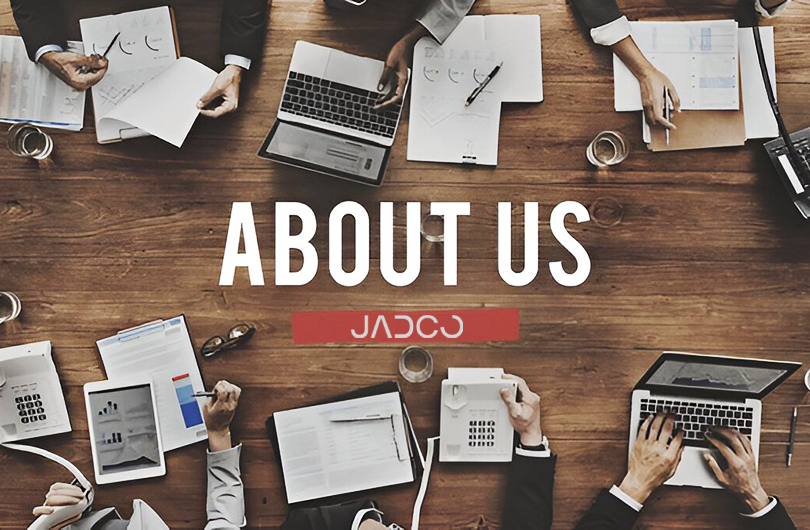
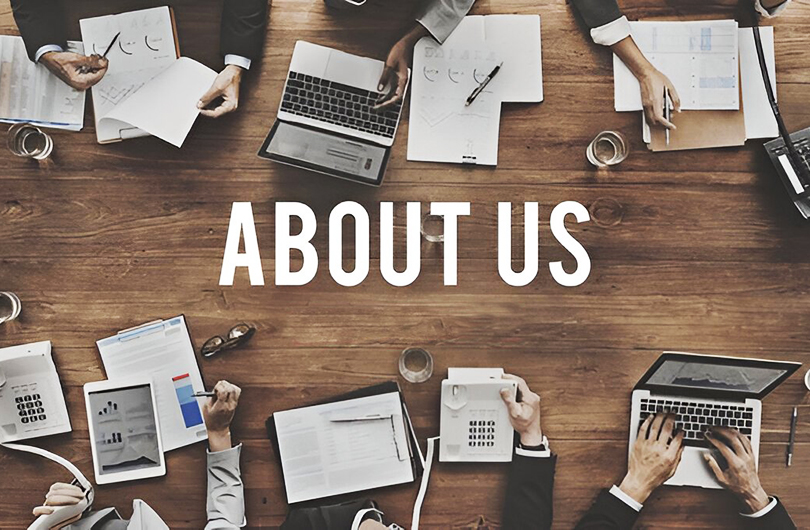
Refactor header text for clarity and consistency. Updated contact information with new WhatsApp numbers. Adjusted CSS styles for headings and service content. Updated CHANGELOG.md to reflect these changes.

Changed region(s): [[0.3395, 0.5736, 0.6481, 0.6642]]

diff --git a/resources/js/components/Header.vue b/resources/js/components/Header.vue
@@ -6,10 +6,10 @@
             <div class="left-col col-lg-6 order-lg-1 order-2">
                 <!-- Dynamic Heading Text -->
                 <h1 class="main-heading">
-                    <span v-if="isHomePage" class="heading-text" :class="{ 'active': currentSlide === 0 }" data-slide="0">FROM EDUCATION AND TRAINING TO INNOVATION</span>
-                    <span v-if="isHomePage" class="heading-text" :class="{ 'active': currentSlide === 1 }" data-slide="1">ADVANCED AI TECHNOLOGIES FOR THE FUTURE</span>
-                    <span v-if="isHomePage" class="heading-text" :class="{ 'active': currentSlide === 2 }" data-slide="2">E-GAMING AND ESPORTS DEVELOPMENT</span>
-                    <span v-if="isHomePage" class="heading-text" :class="{ 'active': currentSlide === 3 }" data-slide="3">ARTS AND ENTERTAINMENT EXCELLENCE</span>
+                    <span v-if="isHomePage" class="heading-text" :class="{ 'active': currentSlide === 0 }" data-slide="0">From Education and Training to Innovation</span>
+                    <span v-if="isHomePage" class="heading-text" :class="{ 'active': currentSlide === 1 }" data-slide="1">The Latest AI and Technologies</span>
+                    <span v-if="isHomePage" class="heading-text" :class="{ 'active': currentSlide === 2 }" data-slide="2">Innovative Efforts in Revolutionizing the eSport Industry</span>
+                    <span v-if="isHomePage" class="heading-text" :class="{ 'active': currentSlide === 3 }" data-slide="3">Bringing the global Arts and Entertainment Events to town.</span>
                     
                     <span v-if="$route.path.includes('about')" class="heading-text active">We Listen, design your vision and bring it to life... Let's talk</span>
                     <span v-if="$route.path.includes('services/education-and-scholarship')" class="heading-text active">FROM EDUCATION AND TRAINING TO INNOVATION</span>

diff --git a/public/css/style.css b/public/css/style.css
@@ -255,6 +255,10 @@ a:hover {
     visibility: hidden;
     transform: translateX(100px);
     width: 100%;
+    text-transform: lowercase;
+}
+.heading-text::first-letter {
+    text-transform: uppercase;
 }
 
 /* Active slide - base animation */
@@ -1148,9 +1152,9 @@ section:after {
 
 .let-talk {
     font-size: 3.3rem;
-    font-weight: lighter;
+    font-weight: 600;
     margin-bottom: 30px;
-    color: var(--dark-color);
+    color: var(--primary-color);
 }
 
 .location-title {
@@ -1445,7 +1449,7 @@ textarea.form-control:focus {
 
 .about-heading img {
     position: absolute;
-    left: 328px;
+    left: 14rem;
     width: 570px;
     height: 123px;
     max-width: 100%;

diff --git a/public/css/optimized/responsive.css b/public/css/optimized/responsive.css
@@ -39,6 +39,9 @@
         width: 310px;
         height: 380px;
     }
+    .about-section .about-heading img {
+        left: 16rem;
+    }
 }
 
 /* ==========================================
@@ -86,6 +89,9 @@
     .about-image-main {
         width: 550px;
         height: 320px;
+    }
+    .about-section .about-heading img {
+        left: 200px;
     }
     
     .about-image-secondary {

diff --git a/public/css/services.css b/public/css/services.css
@@ -66,7 +66,7 @@
 
 .service-item .service-content-wrapper {
     display: inline-block;
-    white-space: nowrap;
+    /* white-space: nowrap; */
     float: left;
     padding-bottom: 0;
 

diff --git a/resources/views/frontend/partials/header.blade.php b/resources/views/frontend/partials/header.blade.php
@@ -29,10 +29,10 @@
             <!-- Dynamic Heading Text -->
             <h1 class="main-heading">
                 @if($isHomePage)
-                <span class="heading-text active" data-slide="0">FROM EDUCATION AND TRAINING TO INNOVATION</span>
-                <span class="heading-text" data-slide="1">ADVANCED AI TECHNOLOGIES FOR THE FUTURE</span>
-                <span class="heading-text" data-slide="2">E-GAMING AND ESPORTS DEVELOPMENT</span>
-                <span class="heading-text" data-slide="3">ARTS AND ENTERTAINMENT EXCELLENCE</span>
+                <span class="heading-text active" data-slide="0">From Education and Training to Innovation.</span>
+                <span class="heading-text" data-slide="1">The Latest AI and Technologies.</span>
+                <span class="heading-text" data-slide="2">Innovative Efforts in Revolutionizing the eSport Industry.</span>
+                <span class="heading-text" data-slide="3">Bringing the global Arts and Entertainment Events to town.</span>
                 @elseif(request()->is('about*'))
                 <span class="heading-text active">We Listen, design your vision and bring it to life... Let's talk</span>
                 @elseif(request()->is('services/education-and-scholarship*'))

diff --git a/resources/views/frontend/partials/contact.blade.php b/resources/views/frontend/partials/contact.blade.php
@@ -19,11 +19,9 @@
                                 Riyadh 13519, Saudi Arabia.<br>
                                 <span class="contact-label">Tel:</span>
                                 <span class="contact-value">
-                                    <a href="https://wa.me/966123456789" class="whatsapp-link" target="_blank">+966
-                                        123456789</a></span><br>
+                                    <a href="https://wa.me/966115256175" class="whatsapp-link" target="_blank">(+966) 115256175</a></span><br>
                                 <span class="contact-label">Mobile:</span> <span class="contact-value"><a
-                                        href="https://wa.me/966123456789" class="whatsapp-link" target="_blank">+966
-                                        123456789</a></span><br>
+                                        href="https://wa.me/966569292048" class="whatsapp-link" target="_blank">(+966) 569292048</a></span><br>
                                 <span class="contact-label">Email: </span> 
                                 <span class="contact-value" style="padding-left: 5px">
                                     <a href="mailto:jad@jadco.co">jad@jadco.co</a>
